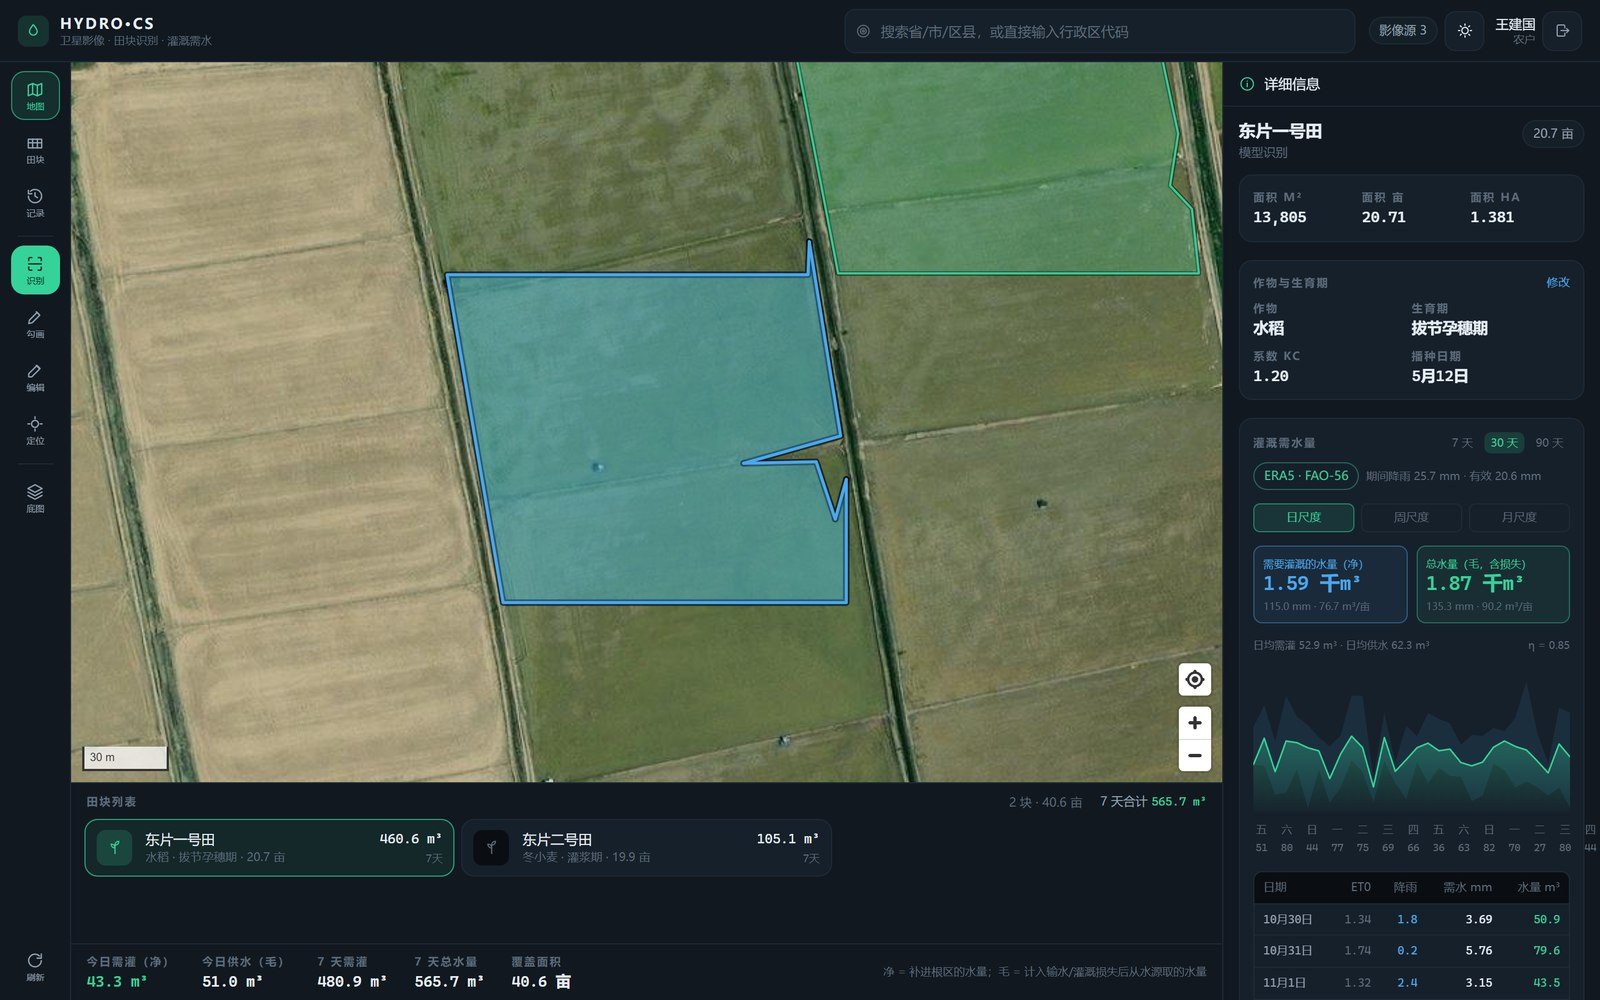
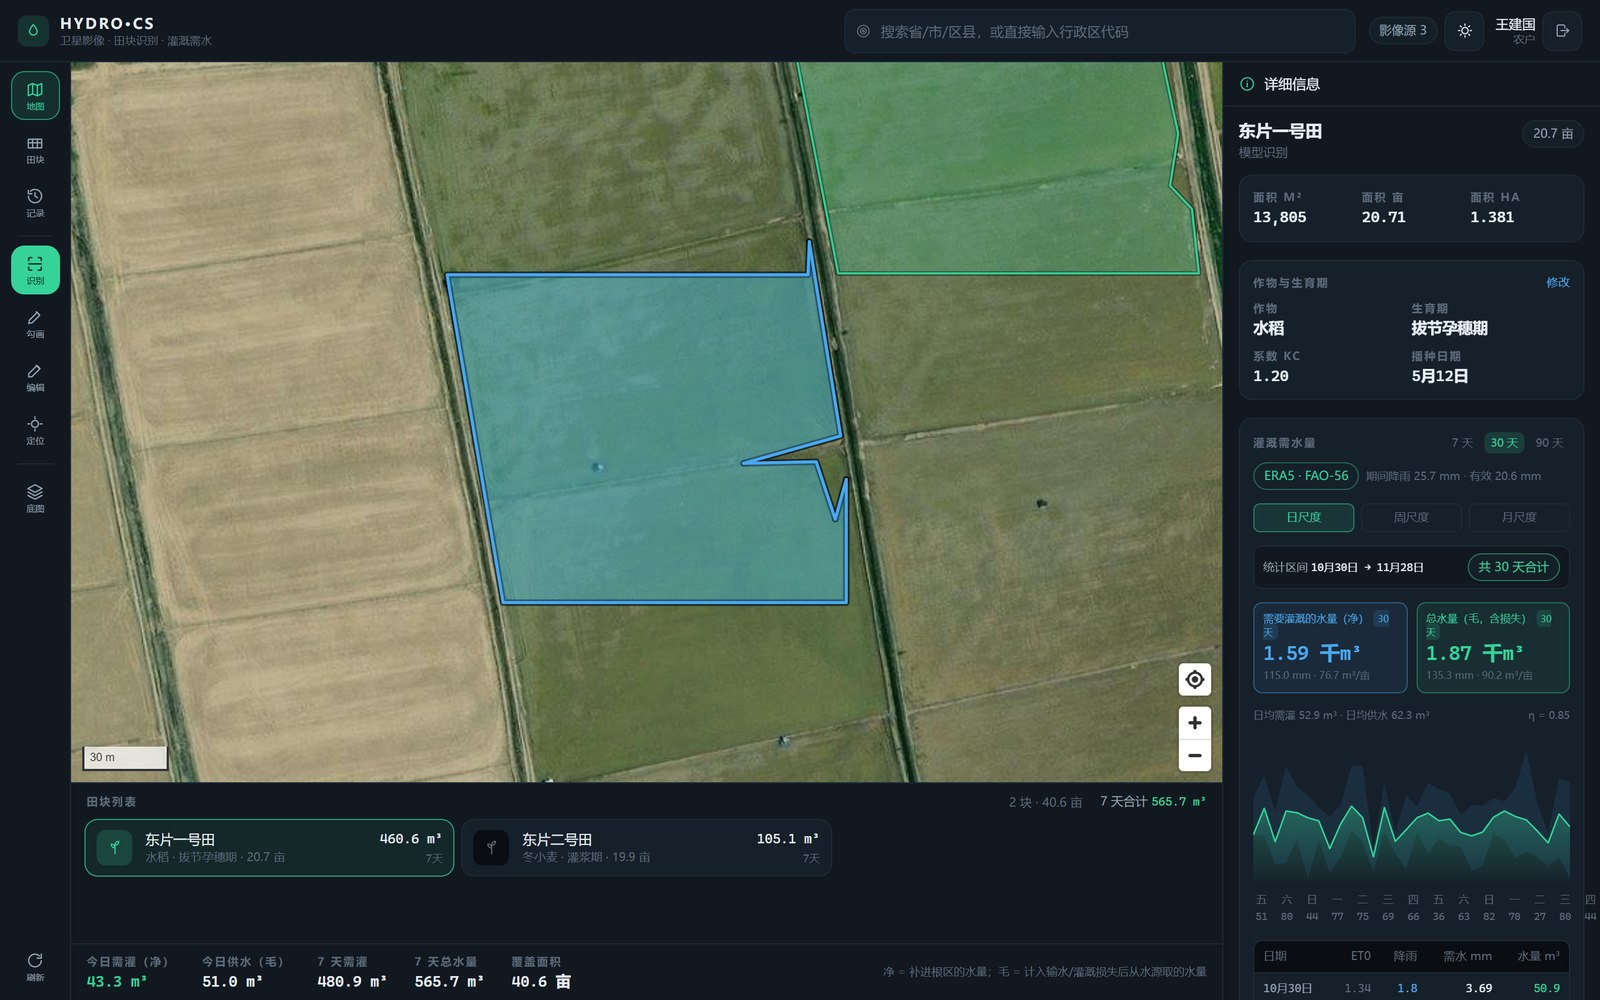
fix(ui): 合计数字标明时间尺度
- 需灌/总水量两张卡片加「N 天」角标，上方补「统计区间 10-30 → 11-28 · 共 N 天合计」- 次表与我的田块的合计标签改为按实际 days 渲染，不再写死 7 天- 更新对应截图

Changed region(s): [[0.7812, 0.527, 1.0, 0.992]]

diff --git a/web/src/components/DetailPanel.tsx b/web/src/components/DetailPanel.tsx
@@ -99,6 +99,13 @@ export default function DetailPanel() {
 
   const cropSpec = crops.find((crop) => crop.key === field?.crop)
 
+  // 合计数字必须带时间尺度，所以把区间拼成一句可读的文案
+  const windowRange = plan
+    ? `${fmtDate(plan.window.start)} → ${fmtDate(
+        plan.series[plan.series.length - 1]?.date ?? plan.window.start,
+      )}`
+    : ''
+
   async function applyChange(patch: Record<string, unknown>) {
     if (!field) return
     setSaving(true)
@@ -285,10 +292,27 @@ export default function DetailPanel() {
                     ))}
                   </div>
 
+                  {/* 时间尺度必须写在数字旁边：这是“X 天合计”，不是当天值 */}
+                  <div className="rounded-lg border border-[var(--hc-line)] bg-[var(--hc-surface)] px-2 py-1.5">
+                    <div className="flex items-center justify-between text-[10px]">
+                      <span className="text-[var(--hc-muted)]">
+                        统计区间 <span className="hc-num text-[var(--hc-ink)]">{windowRange}</span>
+                      </span>
+                      <span className="hc-chip border-[var(--hc-accent)]/50 text-[var(--hc-accent)]">
+                        共 {plan.window.days} 天合计
+                      </span>
+                    </div>
+                  </div>
+
                   <div className="grid grid-cols-2 gap-2">
                     <div className="rounded-lg border border-[var(--hc-sky)]/40 bg-[var(--hc-sky)]/8 p-2">
-                      <div className="text-[9.5px] text-[var(--hc-sky)]">需要灌溉的水量（净）</div>
-                      <div className="hc-num text-[18px] font-semibold leading-tight text-[var(--hc-sky)]">
+                      <div className="text-[9.5px] leading-tight text-[var(--hc-sky)]">
+                        需要灌溉的水量（净）
+                        <span className="ml-1 rounded bg-[var(--hc-sky)]/14 px-1 py-0.5 text-[8.5px]">
+                          {plan.window.days} 天
+                        </span>
+                      </div>
+                      <div className="hc-num mt-0.5 text-[18px] font-semibold leading-tight text-[var(--hc-sky)]">
                         {fmtM3(plan.totals.net_volume_m3 ?? plan.totals.volume_m3)}
                       </div>
                       <div className="mt-0.5 text-[9px] text-[var(--hc-faint)]">
@@ -299,8 +323,13 @@ export default function DetailPanel() {
                       </div>
                     </div>
                     <div className="rounded-lg border border-[var(--hc-accent)]/40 bg-[var(--hc-accent)]/8 p-2">
-                      <div className="text-[9.5px] text-[var(--hc-accent)]">总水量（毛，含损失）</div>
-                      <div className="hc-num text-[18px] font-semibold leading-tight text-[var(--hc-accent)]">
+                      <div className="text-[9.5px] leading-tight text-[var(--hc-accent)]">
+                        总水量（毛，含损失）
+                        <span className="ml-1 rounded bg-[var(--hc-accent)]/14 px-1 py-0.5 text-[8.5px]">
+                          {plan.window.days} 天
+                        </span>
+                      </div>
+                      <div className="hc-num mt-0.5 text-[18px] font-semibold leading-tight text-[var(--hc-accent)]">
                         {fmtM3(plan.totals.gross_volume_m3 ?? plan.totals.volume_m3)}
                       </div>
                       <div className="mt-0.5 text-[9px] text-[var(--hc-faint)]">

diff --git a/web/src/pages/MyFields.tsx b/web/src/pages/MyFields.tsx
@@ -34,13 +34,18 @@ export default function MyFields() {
           <div>
             <h1 className="text-[17px] font-semibold text-[var(--hc-ink)]">我的田块</h1>
             <p className="mt-1 text-[11.5px] text-[var(--hc-faint)]">
-              每块地的面积、作物生育期与未来 7 天灌溉需水量
+              每块地的面积、作物生育期与未来一段时间的灌溉需水量（合计都标注了统计天数）
             </p>
           </div>
           <div className="flex gap-5">
             <Stat label="田块数" value={fields.length} size="sm" />
             <Stat label="总面积" value={fmtMu(totals?.area_mu ?? 0)} size="sm" />
-            <Stat label="7 天需水" value={fmtM3(totals?.week_m3 ?? 0)} accent size="sm" />
+            <Stat
+              label={`${summary?.days ?? 7} 天需水`}
+              value={fmtM3(totals?.week_m3 ?? 0)}
+              accent
+              size="sm"
+            />
           </div>
         </div>
 
@@ -75,13 +80,13 @@ export default function MyFields() {
                       <div className="flex items-end justify-between gap-2">
                         <div className="flex gap-3">
                           <Stat
-                            label="7 天需灌（净）"
+                            label={`${summary?.days ?? 7} 天需灌（净）`}
                             value={fmtM3(entry.totals.net_volume_m3 ?? entry.totals.volume_m3)}
                             accent
                             size="md"
                           />
                           <Stat
-                            label="7 天总水量（毛）"
+                            label={`${summary?.days ?? 7} 天总水量（毛）`}
                             value={fmtM3(entry.totals.volume_m3)}
                             size="md"
                           />
@@ -116,7 +121,9 @@ export default function MyFields() {
                           </div>
                         </div>
                         <div>
-                          <div className="text-[var(--hc-faint)]">7 天有效降雨</div>
+                          <div className="text-[var(--hc-faint)]">
+                            {summary?.days ?? 7} 天有效降雨
+                          </div>
                           <div className="hc-num text-[var(--hc-ink)]">
                             {fmtMm(entry.totals.pe_mm ?? 0)}
                           </div>

diff --git a/web/src/components/FieldSheet.tsx b/web/src/components/FieldSheet.tsx
@@ -65,7 +65,7 @@ export default function FieldSheet() {
                 {fieldCount} 块 · {fmtMu(areaMu)}
               </span>
               <span className="text-[11px] text-[var(--hc-muted)]">
-                7 天合计{' '}
+                {summary?.days ?? 7} 天合计{' '}
                 <span className="hc-num text-[var(--hc-accent)]">
                   {totals ? fmtM3(totals.week_m3) : '—'}
                 </span>
@@ -132,11 +132,15 @@ export default function FieldSheet() {
         />
         <Stat label="今日供水（毛）" value={totals ? fmtM3(totals.daily_m3) : '—'} size="sm" />
         <Stat
-          label="7 天需灌"
+          label={`${summary?.days ?? 7} 天需灌`}
           value={totals ? fmtM3(totals.week_net_m3 ?? totals.week_m3) : '—'}
           size="sm"
         />
-        <Stat label="7 天总水量" value={totals ? fmtM3(totals.week_m3) : '—'} size="sm" />
+        <Stat
+          label={`${summary?.days ?? 7} 天总水量`}
+          value={totals ? fmtM3(totals.week_m3) : '—'}
+          size="sm"
+        />
         <Stat label="覆盖面积" value={fmtMu(areaMu)} size="sm" />
         <span className="ml-auto text-[10px] text-[var(--hc-faint)]">
           净 = 补进根区的水量；毛 = 计入输水/灌溉损失后从水源取的水量
